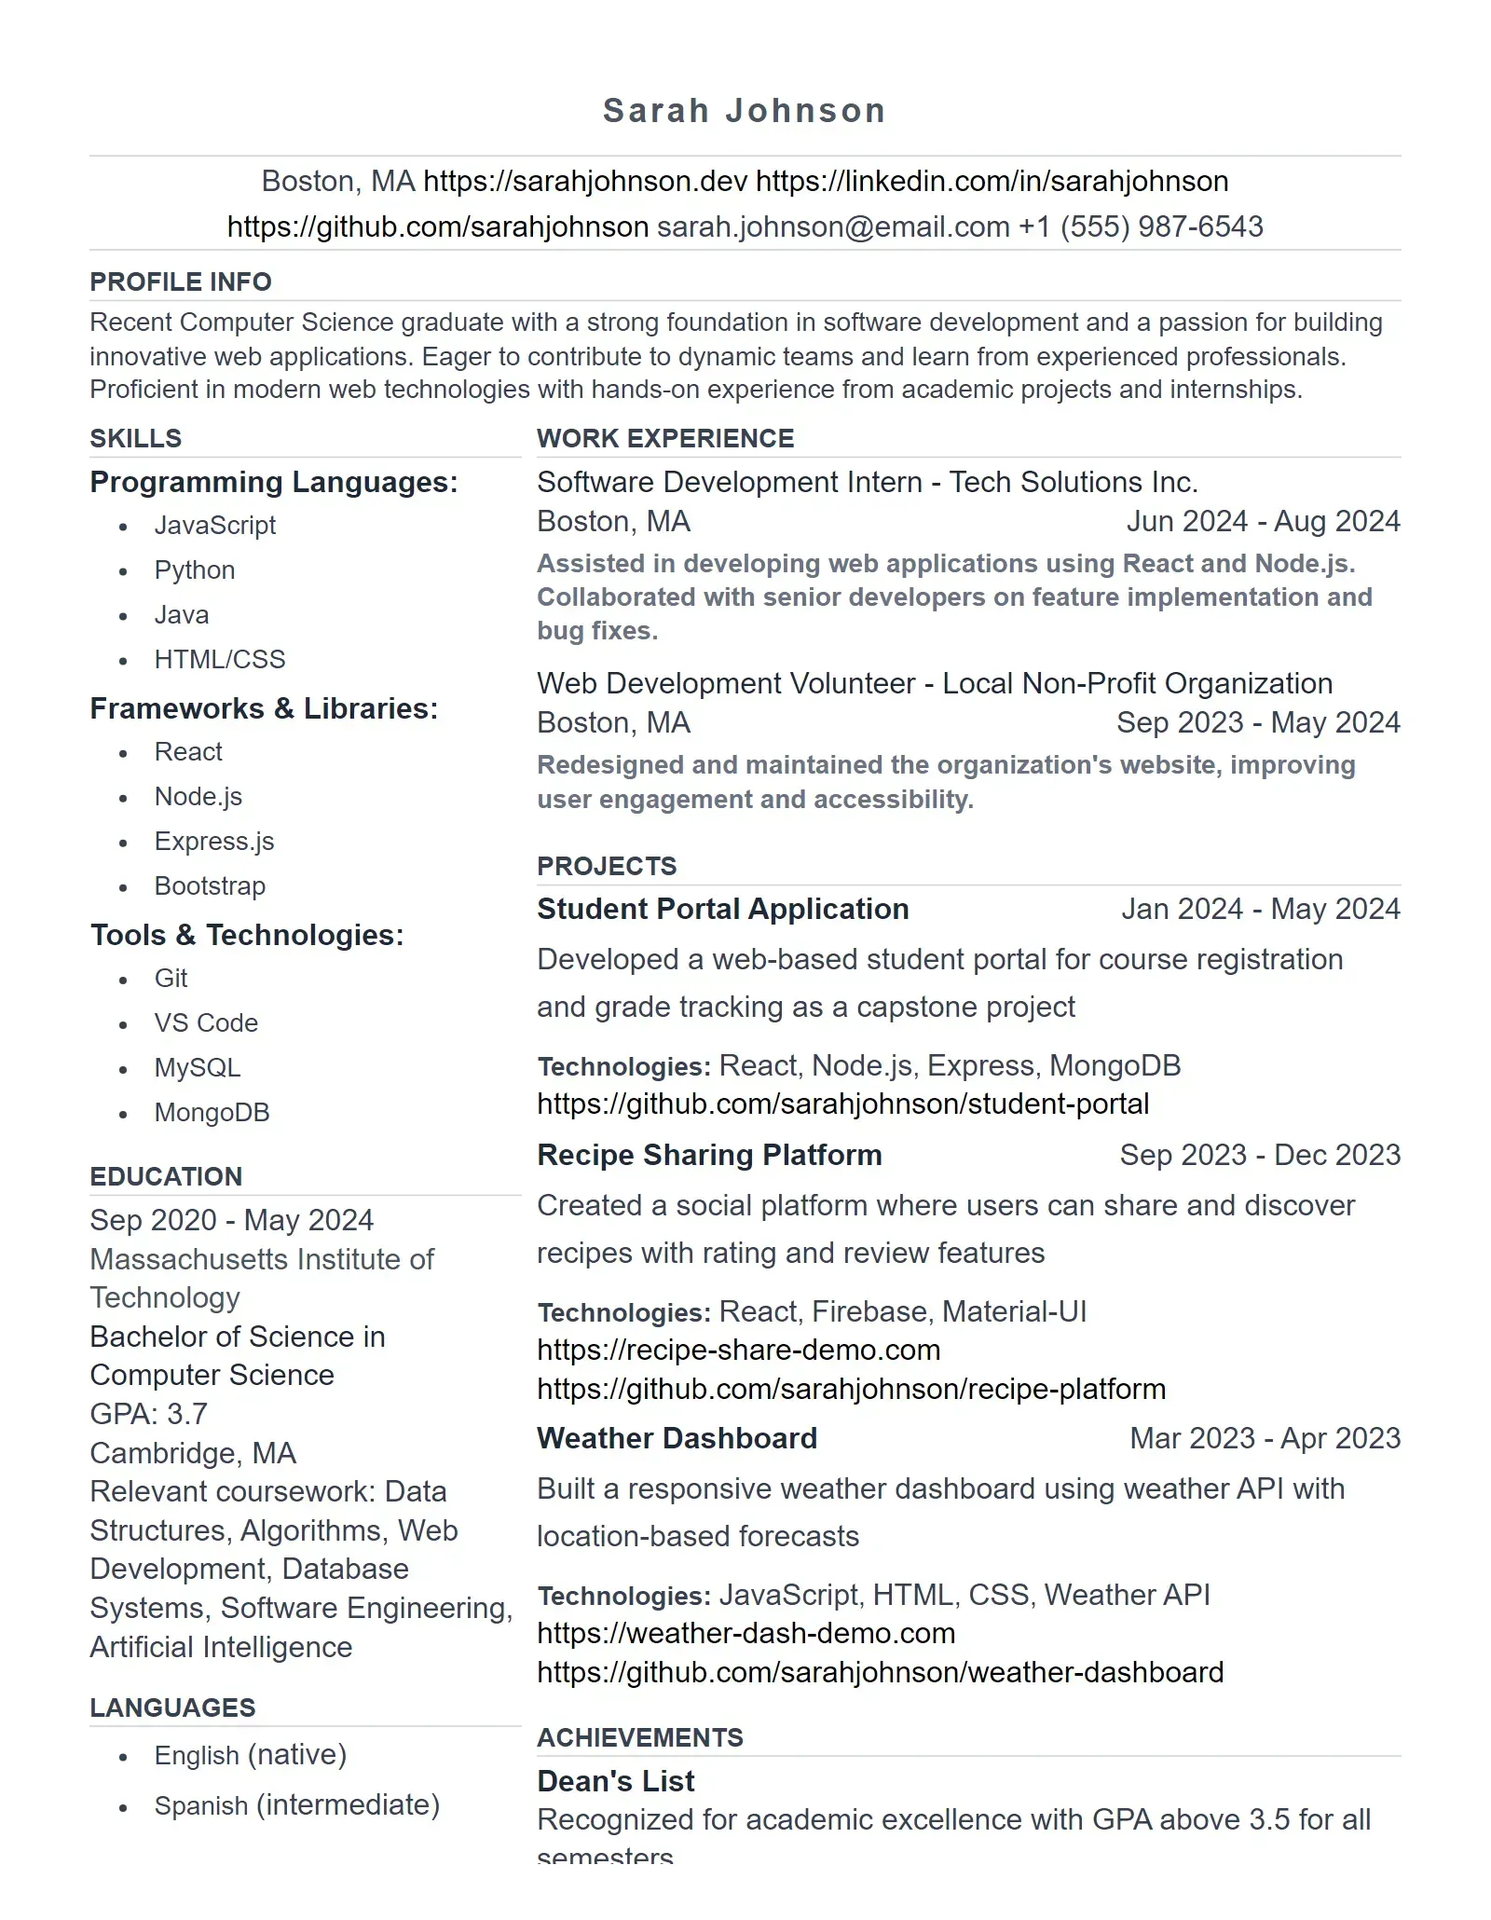
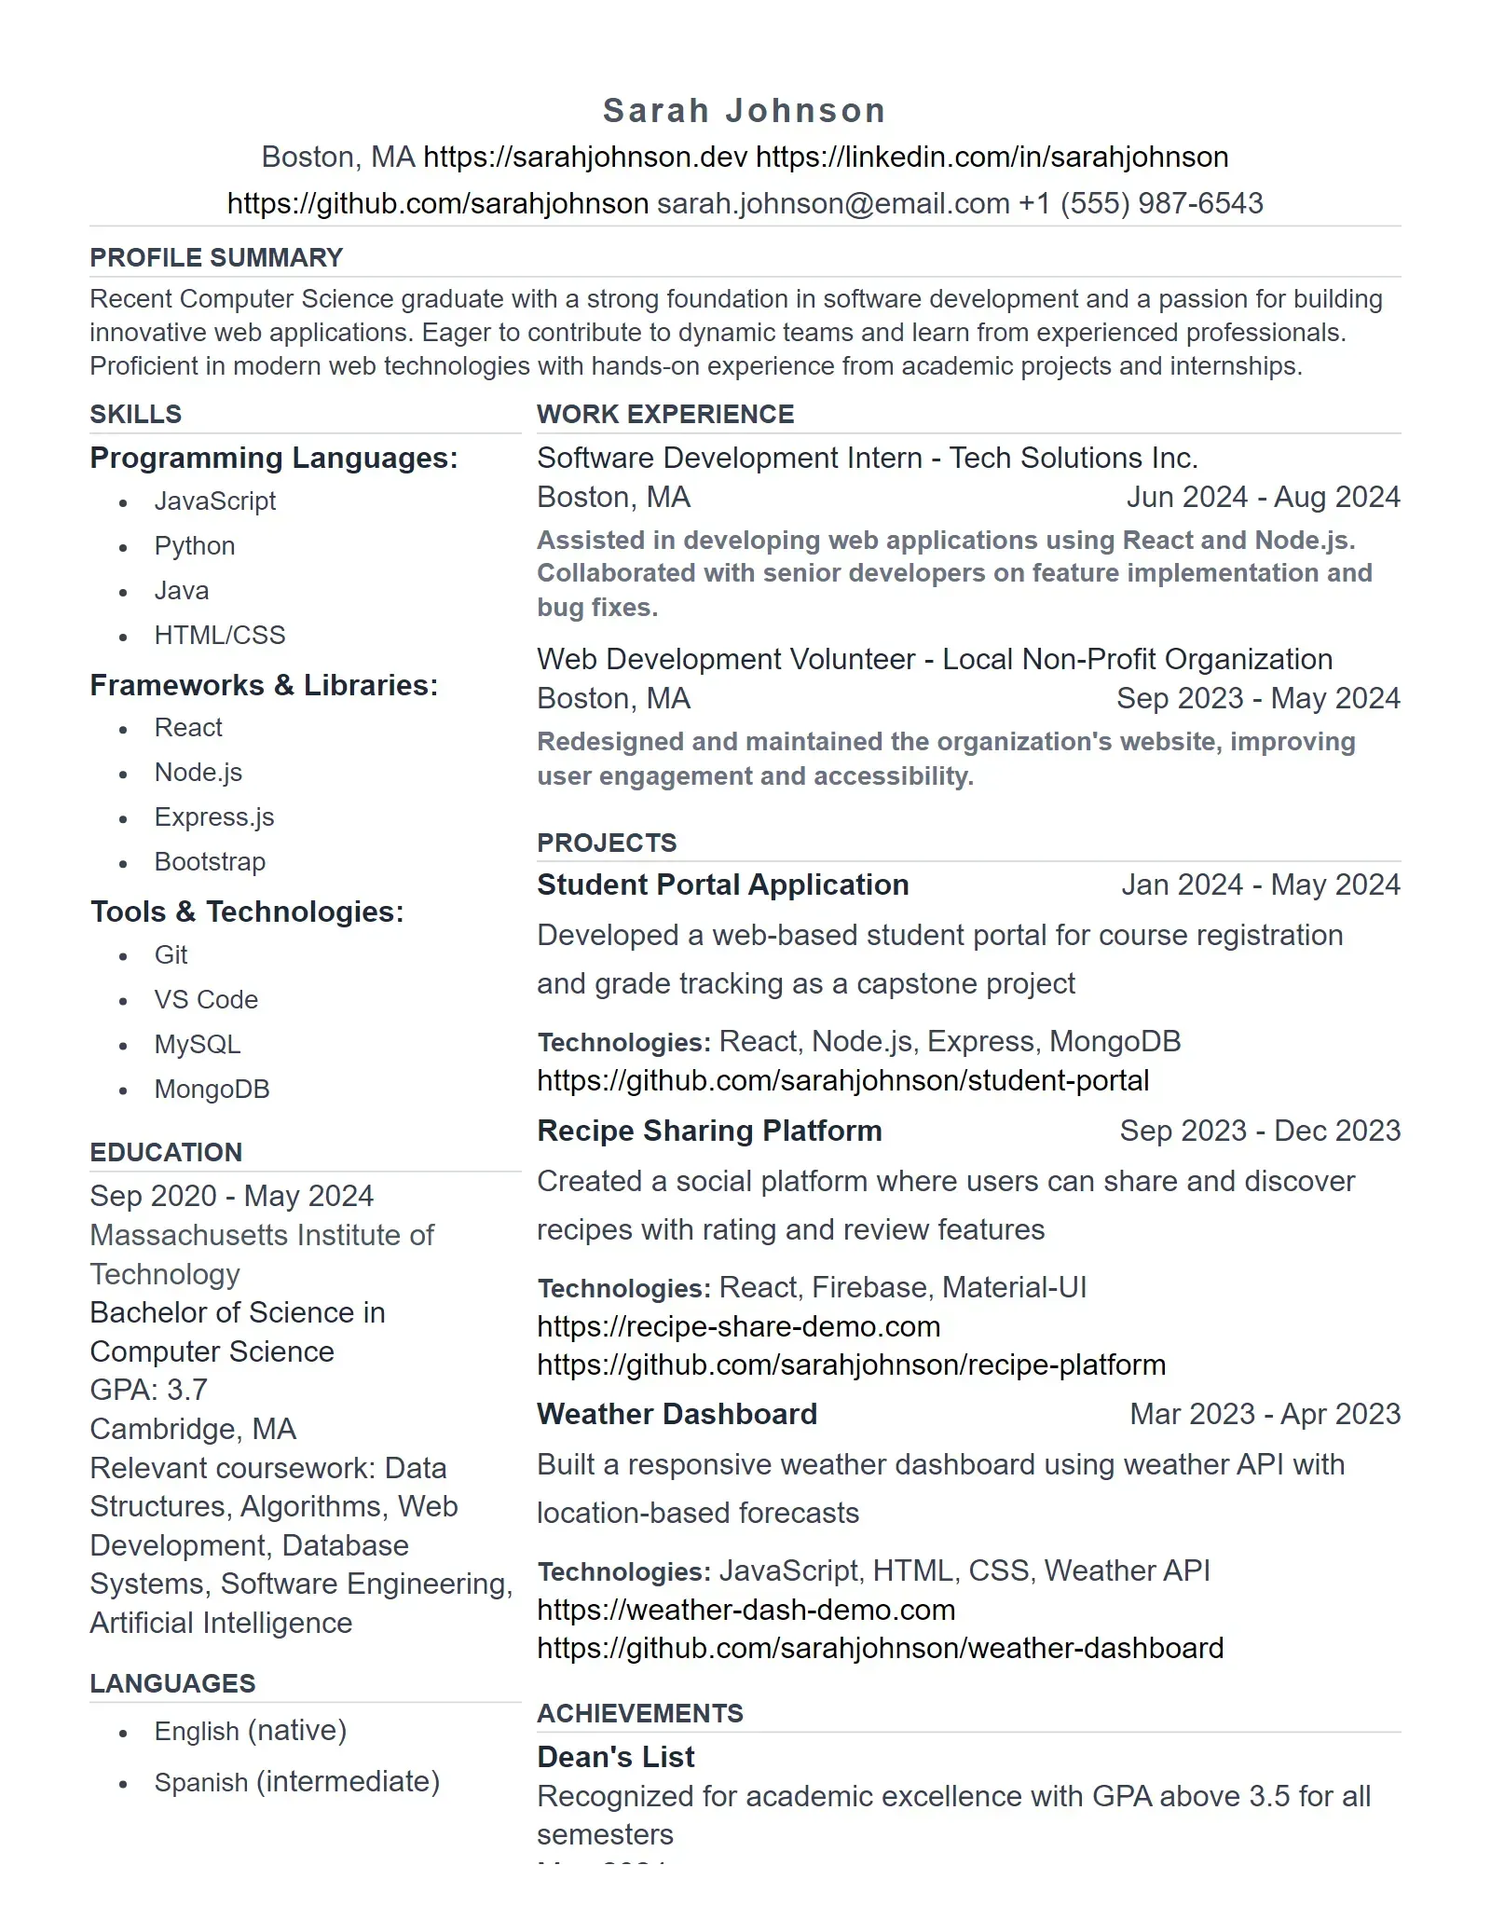
#fix resume form navigation button # update Template property name # remove console log from custom ckeditor

Changed region(s): [[0.0625, 0.0621, 0.9375, 0.9942]]

diff --git a/resume-builder/src/components/ResumeForm.js b/resume-builder/src/components/ResumeForm.js
@@ -1767,7 +1767,7 @@ function ResumeForm() {
       </div>
 
       {/* Basic Information Section */}
-      <div className="space-y-6">
+      <div className="space-y-6 mb-4 sm:mb-6">
         <h3 className="text-xl font-semibold text-gray-900 dark:text-gray-900">Basic Information</h3>
         <FormField
           label="Resume Title"
@@ -1790,7 +1790,7 @@ function ResumeForm() {
           error={validationErrors.title}
         />
         <TextAreaField
-          label="Professional Summary"
+          label="Profile Summary"
           value={formData.summary}
           onChange={(value) => handleInputChange('root', 'summary', value)}
           rows={4}
@@ -1858,7 +1858,7 @@ function ResumeForm() {
   );
 
   const renderPersonalInfo = () => (
-    <div className="space-y-6">
+    <div className="space-y-6 mb-4 sm:mb-6">
       <h3 className="text-xl font-semibold text-gray-900 dark:text-gray-900">Personal Information</h3>
 
       {/* Profile Data Notice */}
@@ -1947,7 +1947,7 @@ function ResumeForm() {
   );
 
   const renderWorkExperience = () => (
-    <div className="space-y-6">
+    <div className="space-y-6 mb-4 sm:mb-6">
       {/* Header Section - Mobile Responsive */}
       <div className="space-y-4">
         <div className="flex justify-between items-center gap-4">
@@ -2168,7 +2168,7 @@ function ResumeForm() {
   );
 
   const renderEducation = () => (
-    <div className="space-y-6">
+    <div className="space-y-6 mb-4 sm:mb-6">
       <div className="flex justify-between items-center">
         <h3 className="text-xl font-semibold text-gray-900 dark:text-gray-900">Education</h3>
         <button
@@ -2383,7 +2383,7 @@ function ResumeForm() {
   );
 
   const renderSkills = () => (
-    <div className="space-y-6">
+    <div className="space-y-6 mb-4 sm:mb-6">
       <div className="flex justify-between items-center">
         <h3 className="text-xl font-semibold text-gray-900 dark:text-gray-900">Skills</h3>
         <button
@@ -2663,7 +2663,7 @@ function ResumeForm() {
   );
 
   const renderProjects = () => (
-    <div className="space-y-6">
+    <div className="space-y-6 mb-4 sm:mb-6">
       <div className="flex justify-between items-center">
         <h3 className="text-xl font-semibold text-gray-900 dark:text-gray-900">Projects</h3>
         <button
@@ -2811,7 +2811,7 @@ function ResumeForm() {
   );
 
   const renderAchievements = () => (
-    <div className="space-y-6">
+    <div className="space-y-6 mb-4 sm:mb-6">
       <div className="flex justify-between items-center">
         <h3 className="text-xl font-semibold text-gray-900 dark:text-gray-900">Achievements & Awards</h3>
         <button
@@ -2932,7 +2932,7 @@ function ResumeForm() {
   );
 
   const renderCertificationsAndLanguages = () => (
-    <div className="space-y-8">
+    <div className="space-y-8 mb-4 sm:mb-6">
       {/* Certifications */}
       <div className="space-y-6">
         <div className="flex justify-between items-center">
@@ -3374,7 +3374,7 @@ function ResumeForm() {
         </div>
 
         {/* Form Content */}
-        <div className="backdrop-blur-md bg-white/80 dark:bg-orange-50/95 rounded-2xl shadow-xl border border-white/20 dark:border-orange-200/30 p-4 sm:p-8 mb-6 sm:mb-8">
+        <div className="backdrop-blur-md bg-white/80 dark:bg-orange-50/95 rounded-2xl shadow-xl border border-white/20 dark:border-orange-200/30 p-2 sm:p-8 mb-12 sm:mb-16">
           <div className="mb-4 sm:mb-6">
             <h2 className="text-lg sm:text-2xl font-semibold text-gray-900 mb-2">{getStepTitle()}</h2>
             <div className="w-12 sm:w-16 h-1 bg-gradient-to-r from-blue-600 to-purple-600 rounded-full"></div>
@@ -3399,10 +3399,8 @@ function ResumeForm() {
           )}
 
           {renderStepContent()}
-        </div>
 
-        {/* Navigation */}
-        <div className="space-y-3 px-2 sm:px-0">
+          
           {/* Step Indicators */}
           <div className="flex justify-center">
             <div className="flex space-x-1 sm:space-x-2">
@@ -3419,9 +3417,12 @@ function ResumeForm() {
               ))}
             </div>
           </div>
+        </div>
 
+        {/* Navigation */}
+        <div className="fixed bottom-0 right-0 left-0 bg-white dark:bg-gray-400">
           {/* Navigation Buttons */}
-          <div className="flex justify-between items-center gap-2 sm:gap-3 pt-4 sm:pt-6">
+          <div className="flex justify-between items-center gap-2 sm:gap-3 p-2 sm:p-4">
             <button
               onClick={prevStep}
               disabled={currentStep === 1}
@@ -3476,7 +3477,7 @@ function ResumeForm() {
               )}
             </button>
           </div>
-        </div>
+          </div>
       </div>
 
       {/* Clear Form Confirmation Modal */}

diff --git a/backend/assets/modernTemplates.js b/backend/assets/modernTemplates.js
@@ -67,7 +67,7 @@ module.exports = [
               
               {{#if summary}}
               <section class="summary secondaryFont">
-                <h3 class="primaryFont">Professional Summary</h3>
+                <h3 class="primaryFont">Summary</h3>
                 <div class="summary secondaryFont" itemprop="description">{{{summary}}}</div>
               </section>
               {{/if}}
@@ -637,7 +637,7 @@ module.exports = [
             
             {{#if summary}}
             <section class="summary-section">
-              <h3 class="primaryFont">Professional Summary</h3>
+              <h3 class="primaryFont">Summary</h3>
               <div class="summary secondaryFont" itemprop="description">{{{summary}}}</div>
             </section>
             {{/if}}
@@ -907,7 +907,7 @@ module.exports = [
               
               {{#if summary}}
               <section class="summary secondaryFont">
-                <h3 class="primaryFont">Professional Summary</h3>
+                <h3 class="primaryFont">Summary</h3>
                 <div class="summary secondaryFont" itemprop="description">{{{summary}}}</div>
               </section>
               {{/if}}
@@ -1238,7 +1238,7 @@ module.exports = [
             
             {{#if summary}}
             <section class="summary">
-              <h2 class="primaryFont">Professional Summary</h2>
+              <h2 class="primaryFont">Summary</h2>
               <div class="summary secondaryFont" itemprop="description">{{{summary}}}</div>
             </section>
             {{/if}}
@@ -1512,7 +1512,7 @@ module.exports = [
             
             {{#if summary}}
             <section class="summary">
-              <h2 class="primaryFont">Professional Summary</h2>
+              <h2 class="primaryFont">Profile Summary</h2>
               <div class="summary secondaryFont" itemprop="description">{{{summary}}}</div>
             </section>
             {{/if}}
@@ -1796,7 +1796,7 @@ module.exports = [
             
             {{#if summary}}
             <section class="summary">
-              <h2 class="primaryFont">Professional Summary</h2>
+              <h2 class="primaryFont">Profile Summary</h2>
               <div class="summary secondaryFont" itemprop="description">{{{summary}}}</div>
             </section>
             {{/if}}

diff --git a/backend/routes/resumes.js b/backend/routes/resumes.js
@@ -1506,7 +1506,7 @@ function generateDocxContent(docx, resume) {
   const getSectionTitle = (section, templateCategory) => {
     const sectionTitles = {
       'classic': {
-        summary: 'OBJECTIVE',
+        summary: 'SUMMARY',
         workExperience: 'EXPERIENCE',
         education: 'EDUCATION',
         skills: 'SKILLS',
@@ -1515,17 +1515,17 @@ function generateDocxContent(docx, resume) {
         achievements: 'ACHIEVEMENTS'
       },
       'creative': {
-        summary: 'About Me',
+        summary: 'Summary',
         workExperience: 'Experience',
         education: 'Education',
         skills: 'Skills',
-        projects: 'Portfolio Projects',
+        projects: 'Projects',
         certifications: 'Certifications',
         achievements: 'Achievements'
       },
       'academic': {
-        summary: 'Research Interests',
-        workExperience: 'Academic & Professional Experience',
+        summary: 'Summary',
+        workExperience: 'Experience',
         education: 'Education',
         skills: 'Technical Skills',
         projects: 'Research Projects & Publications',
@@ -1533,7 +1533,7 @@ function generateDocxContent(docx, resume) {
         achievements: 'Awards & Honors'
       },
       'professional': {
-        summary: 'Professional Summary',
+        summary: 'Summary',
         workExperience: 'Professional Experience',
         education: 'Education',
         skills: 'Core Skills',
@@ -1542,7 +1542,7 @@ function generateDocxContent(docx, resume) {
         achievements: 'Key Achievements'
       },
       'modern': {
-        summary: 'Professional Summary',
+        summary: 'Summary',
         workExperience: 'Work Experience',
         education: 'Education',
         skills: 'Skills',
@@ -1551,7 +1551,7 @@ function generateDocxContent(docx, resume) {
         achievements: 'Achievements'
       },
       'minimalist': {
-        summary: '',
+        summary: 'Summary',
         workExperience: 'Experience',
         education: 'Education',
         skills: 'Skills',

diff --git a/backend/assets/classicTemplates.js b/backend/assets/classicTemplates.js
@@ -589,7 +589,7 @@ module.exports = [
                 
                 {{#if summary}}
                 <section class="summary">
-                  <h2 class="primaryFont">Professional Summary</h2>
+                  <h2 class="primaryFont">Summary</h2>
                   <div class="summary secondaryFont" itemprop="description">{{{summary}}}</div>
                 </section>
                 {{/if}}
@@ -1003,7 +1003,7 @@ module.exports = [
                     <header>
                     <h1 class="name primaryFont">{{personalInfo.fullName}}</h1>
                     {{#unless isFresher}}
-  <h2 class="primaryFont" itemprop="title">{{title}}</h2>
+  <h2 class="primaryFont fresher" itemprop="title">{{title}}</h2>
 {{/unless}}
 
                     </header>
@@ -1033,7 +1033,7 @@ module.exports = [
                     </section>
                     {{#if summary}}
                     <section class="section summary">
-                    <h3 class="primaryFont">PROFILE INFO</h3>
+                    <h3 class="primaryFont">PROFILE SUMMARY</h3>
                     <hr class="separator"/>
                     <span class="summary-text">{{{summary}}}</span>
                     </section>
@@ -1223,8 +1223,10 @@ module.exports = [
                                 margin-top: 2px;
                                 font-size: 1.5rem;font-weight: 600;
                             }
+                                .fresher {
+                                border-bottom: 1px solid var(--border-color-light);
+                                }
                             .contact-info {
-                                border-top: 1px solid var(--border-color-light);
                                 border-bottom: 1px solid var(--border-color-light);
                                 padding-top: 2px;
                                 padding-bottom: 5px;

diff --git a/resume-builder/src/components/customCkeditor.js b/resume-builder/src/components/customCkeditor.js
@@ -526,17 +526,8 @@ const CustomCKEditorComponent = ({
         if (editorInstanceRef.current || isInitializingRef.current) return;
 
         isInitializingRef.current = true;
-        console.log("Initializing CKEditor...");
-        console.log("Editor class/object:", Editor);
-        console.log("Editor.create type:", typeof Editor.create);
-        console.log("Editor.builtinPlugins:", Editor.builtinPlugins);
-        console.log("Editor.defaultConfig:", Editor.defaultConfig);
-        console.log("window.CKEDITOR:", window.CKEDITOR);
-        console.log("window.ClassicEditor:", window.ClassicEditor);
-        console.log("Editor.prototype:", Editor.prototype);
 
         const createPromise = Editor.create(editorRef.current, editorConfig);
-        console.log("Create promise:", createPromise);
 
         createPromise
             .then((editor) => {
@@ -544,7 +535,6 @@ const CustomCKEditorComponent = ({
 
                 // Fallback: Check if instance is attached to DOM
                 if (!editor && editorRef.current && editorRef.current.ckeditorInstance) {
-                    console.log("Found instance on DOM:", editorRef.current.ckeditorInstance);
                     editor = editorRef.current.ckeditorInstance;
                 }
 

diff --git a/backend/assets/professionalTemplate.js b/backend/assets/professionalTemplate.js
@@ -89,7 +89,7 @@ module.exports = [
             <div class="main-content">
                 {{#if summary}}
                 <section class="summary secondaryFont">
-                <h2 class="primaryFont">Professional Summary</h2>
+                <h2 class="primaryFont">Profile Summary</h2>
                 <div class="summary secondaryFont" itemprop="description">{{{summary}}}</div>
                 </section>
                 {{/if}}
@@ -779,7 +779,7 @@ module.exports = [
               
               {{#if summary}}
               <section class="summary secondaryFont">
-                <h3 class="primaryFont">Professional Summary</h3>
+                <h3 class="primaryFont">Profile Summary</h3>
                 <div class="summary secondaryFont" itemprop="description">{{{summary}}}</div>
               </section>
               {{/if}}

diff --git a/resume-builder/src/components/CreateTemplate.js b/resume-builder/src/components/CreateTemplate.js
@@ -16,7 +16,7 @@ const CreateTemplate = () => {
             <p style="margin: 5px 0; font-size: 1rem; opacity: 0.8;">mailto: john.smith@email.com | tel: (555) 123-4567 | <a style="color: white;" href="https://linkedin.com/in/johnsmith">linkedin.com/in/johnsmith</a></p>
           </div>
           
-          <h3 style="color: #34495e; border-bottom: 2px solid #3498db; padding-bottom: 8px; margin-top: 25px;">Professional Summary</h3>
+          <h3 style="color: #34495e; border-bottom: 2px solid #3498db; padding-bottom: 8px; margin-top: 25px;">Profile Summary</h3>
           <p style="line-height: 1.6; color: #2c3e50;">
             Experienced software engineer with 5+ years of expertise in full-stack development, 
             cloud architecture, and team leadership. Proven track record of delivering scalable 

diff --git a/backend/utils/puppeteerThumbnailGenerator.js b/backend/utils/puppeteerThumbnailGenerator.js
@@ -442,7 +442,8 @@ class PuppeteerThumbnailGenerator {
         certifications: this.sampleData.certifications,
         languages: this.sampleData.languages,
         customFields: this.sampleData.customFields,
-        styling: this.sampleData.styling || {} // Include styling data
+        styling: this.sampleData.styling || {}, // Include styling data
+        isFresher: this.sampleData.isFresher
       };
       const renderResult = renderer.render(template, resumeData);
 

diff --git a/backend/templates/email-verification-otp.html b/backend/templates/email-verification-otp.html
@@ -230,7 +230,7 @@
         <p>If you didn't create an account with Presmistique - AI Resume Builder, please ignore this email.</p>
 
         <p>Need help? Contact our support team at <a
-                href="mailto:{{support_email}}">{{support_email}}</a></p>
+                href="mailto:{{supportEmail}}">{{supportEmail}}</a></p>
 
         <div class="footer">
             <p>© {{year}} Presmistique - AI Resume Builder. All rights reserved.</p>

diff --git a/backend/assets/academicTemplate.js b/backend/assets/academicTemplate.js
@@ -409,7 +409,7 @@ module.exports = [
                 </div>
                 {{#if summary}}
                 <section class="summary">
-                <h2 class="section-title primaryFont">PROFESSIONAL SUMMARY</h2>
+                <h2 class="section-title primaryFont">SUMMARY</h2>
                 <p class="summary-text secondaryFont">{{{summary}}}</p>
                 </section>
                 {{/if}}

diff --git a/backend/assets/minimalistTemplate.js b/backend/assets/minimalistTemplate.js
@@ -66,7 +66,7 @@ module.exports = [
             
             {{#if summary}}
                 <section class="summary">
-                    <h2 class="primaryFont">Professional Summary</h2>
+                    <h2 class="primaryFont">Summary</h2>
                     <div class="summary secondaryFont" itemprop="description">{{{summary}}}</div>
                 </section>
             {{/if}}

diff --git a/backend/assets/creativeTemplate.js b/backend/assets/creativeTemplate.js
@@ -783,7 +783,7 @@ module.exports = [
             
             {{#if summary}}
             <section class="summary">
-              <h2 class="primaryFont">Professional Summary</h2>
+              <h2 class="primaryFont">Summary</h2>
               <div class="summary secondaryFont" itemprop="description">{{{summary}}}</div>
             </section>
             {{/if}}
